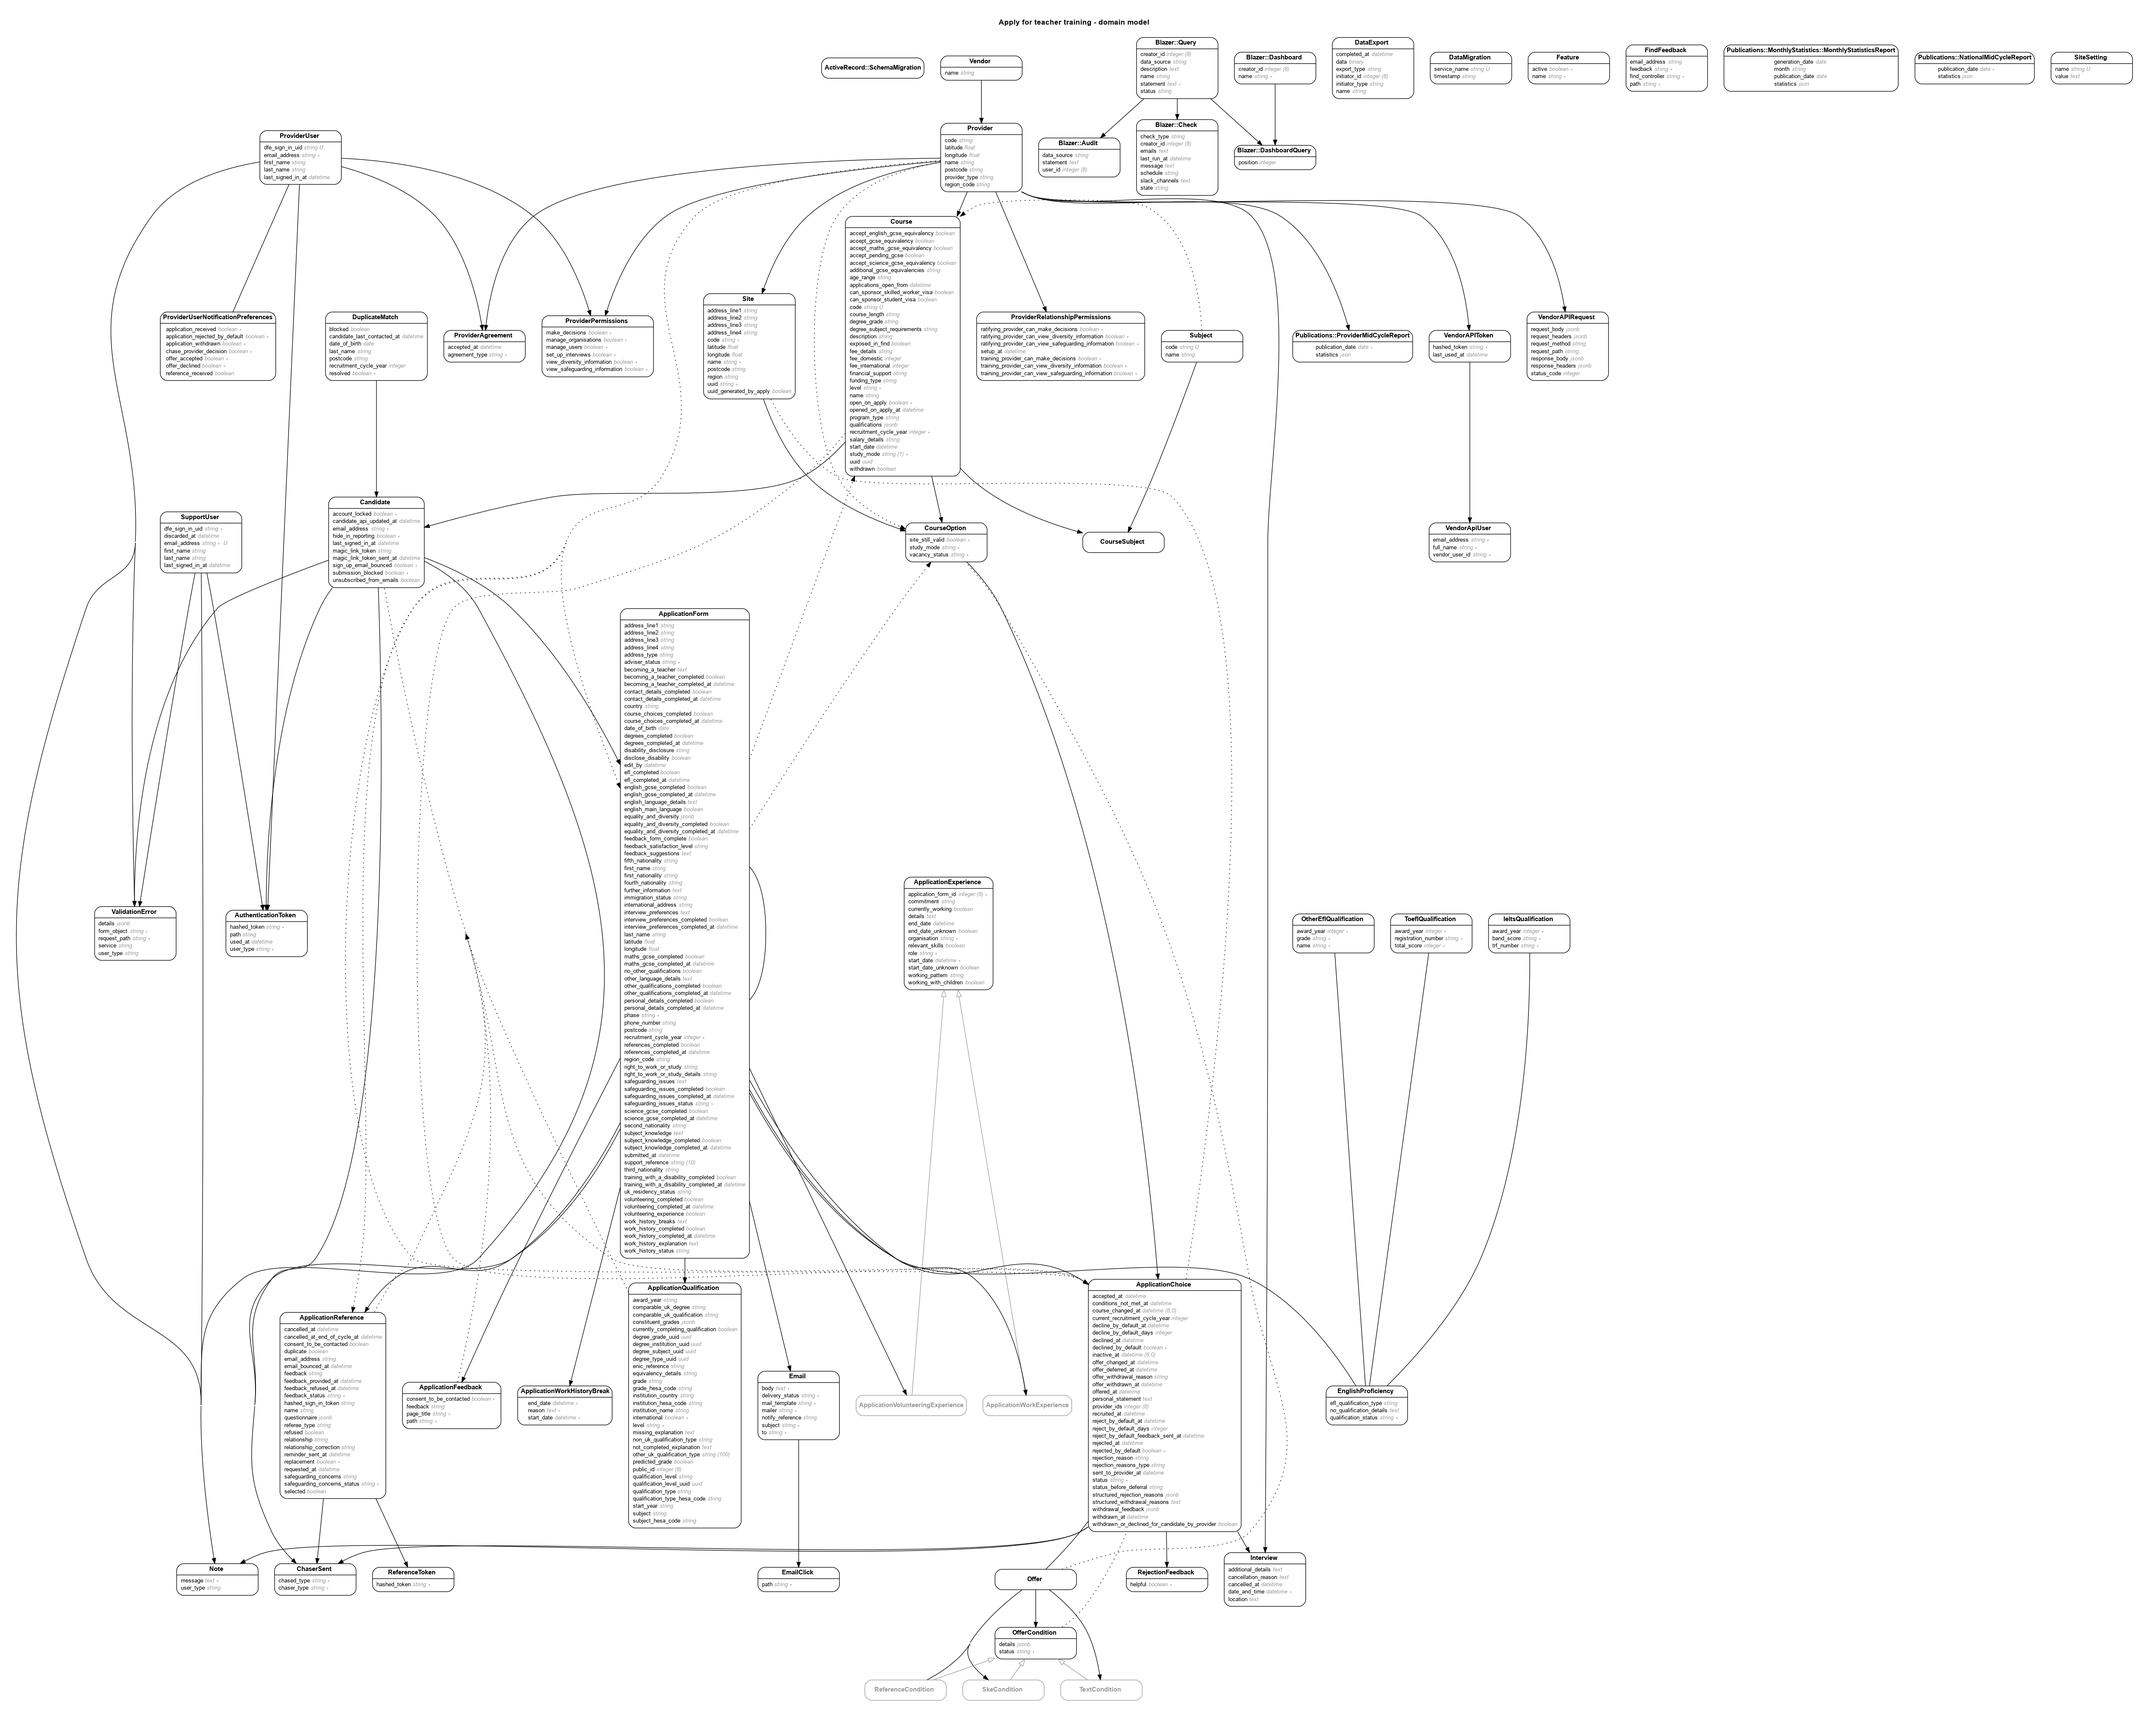
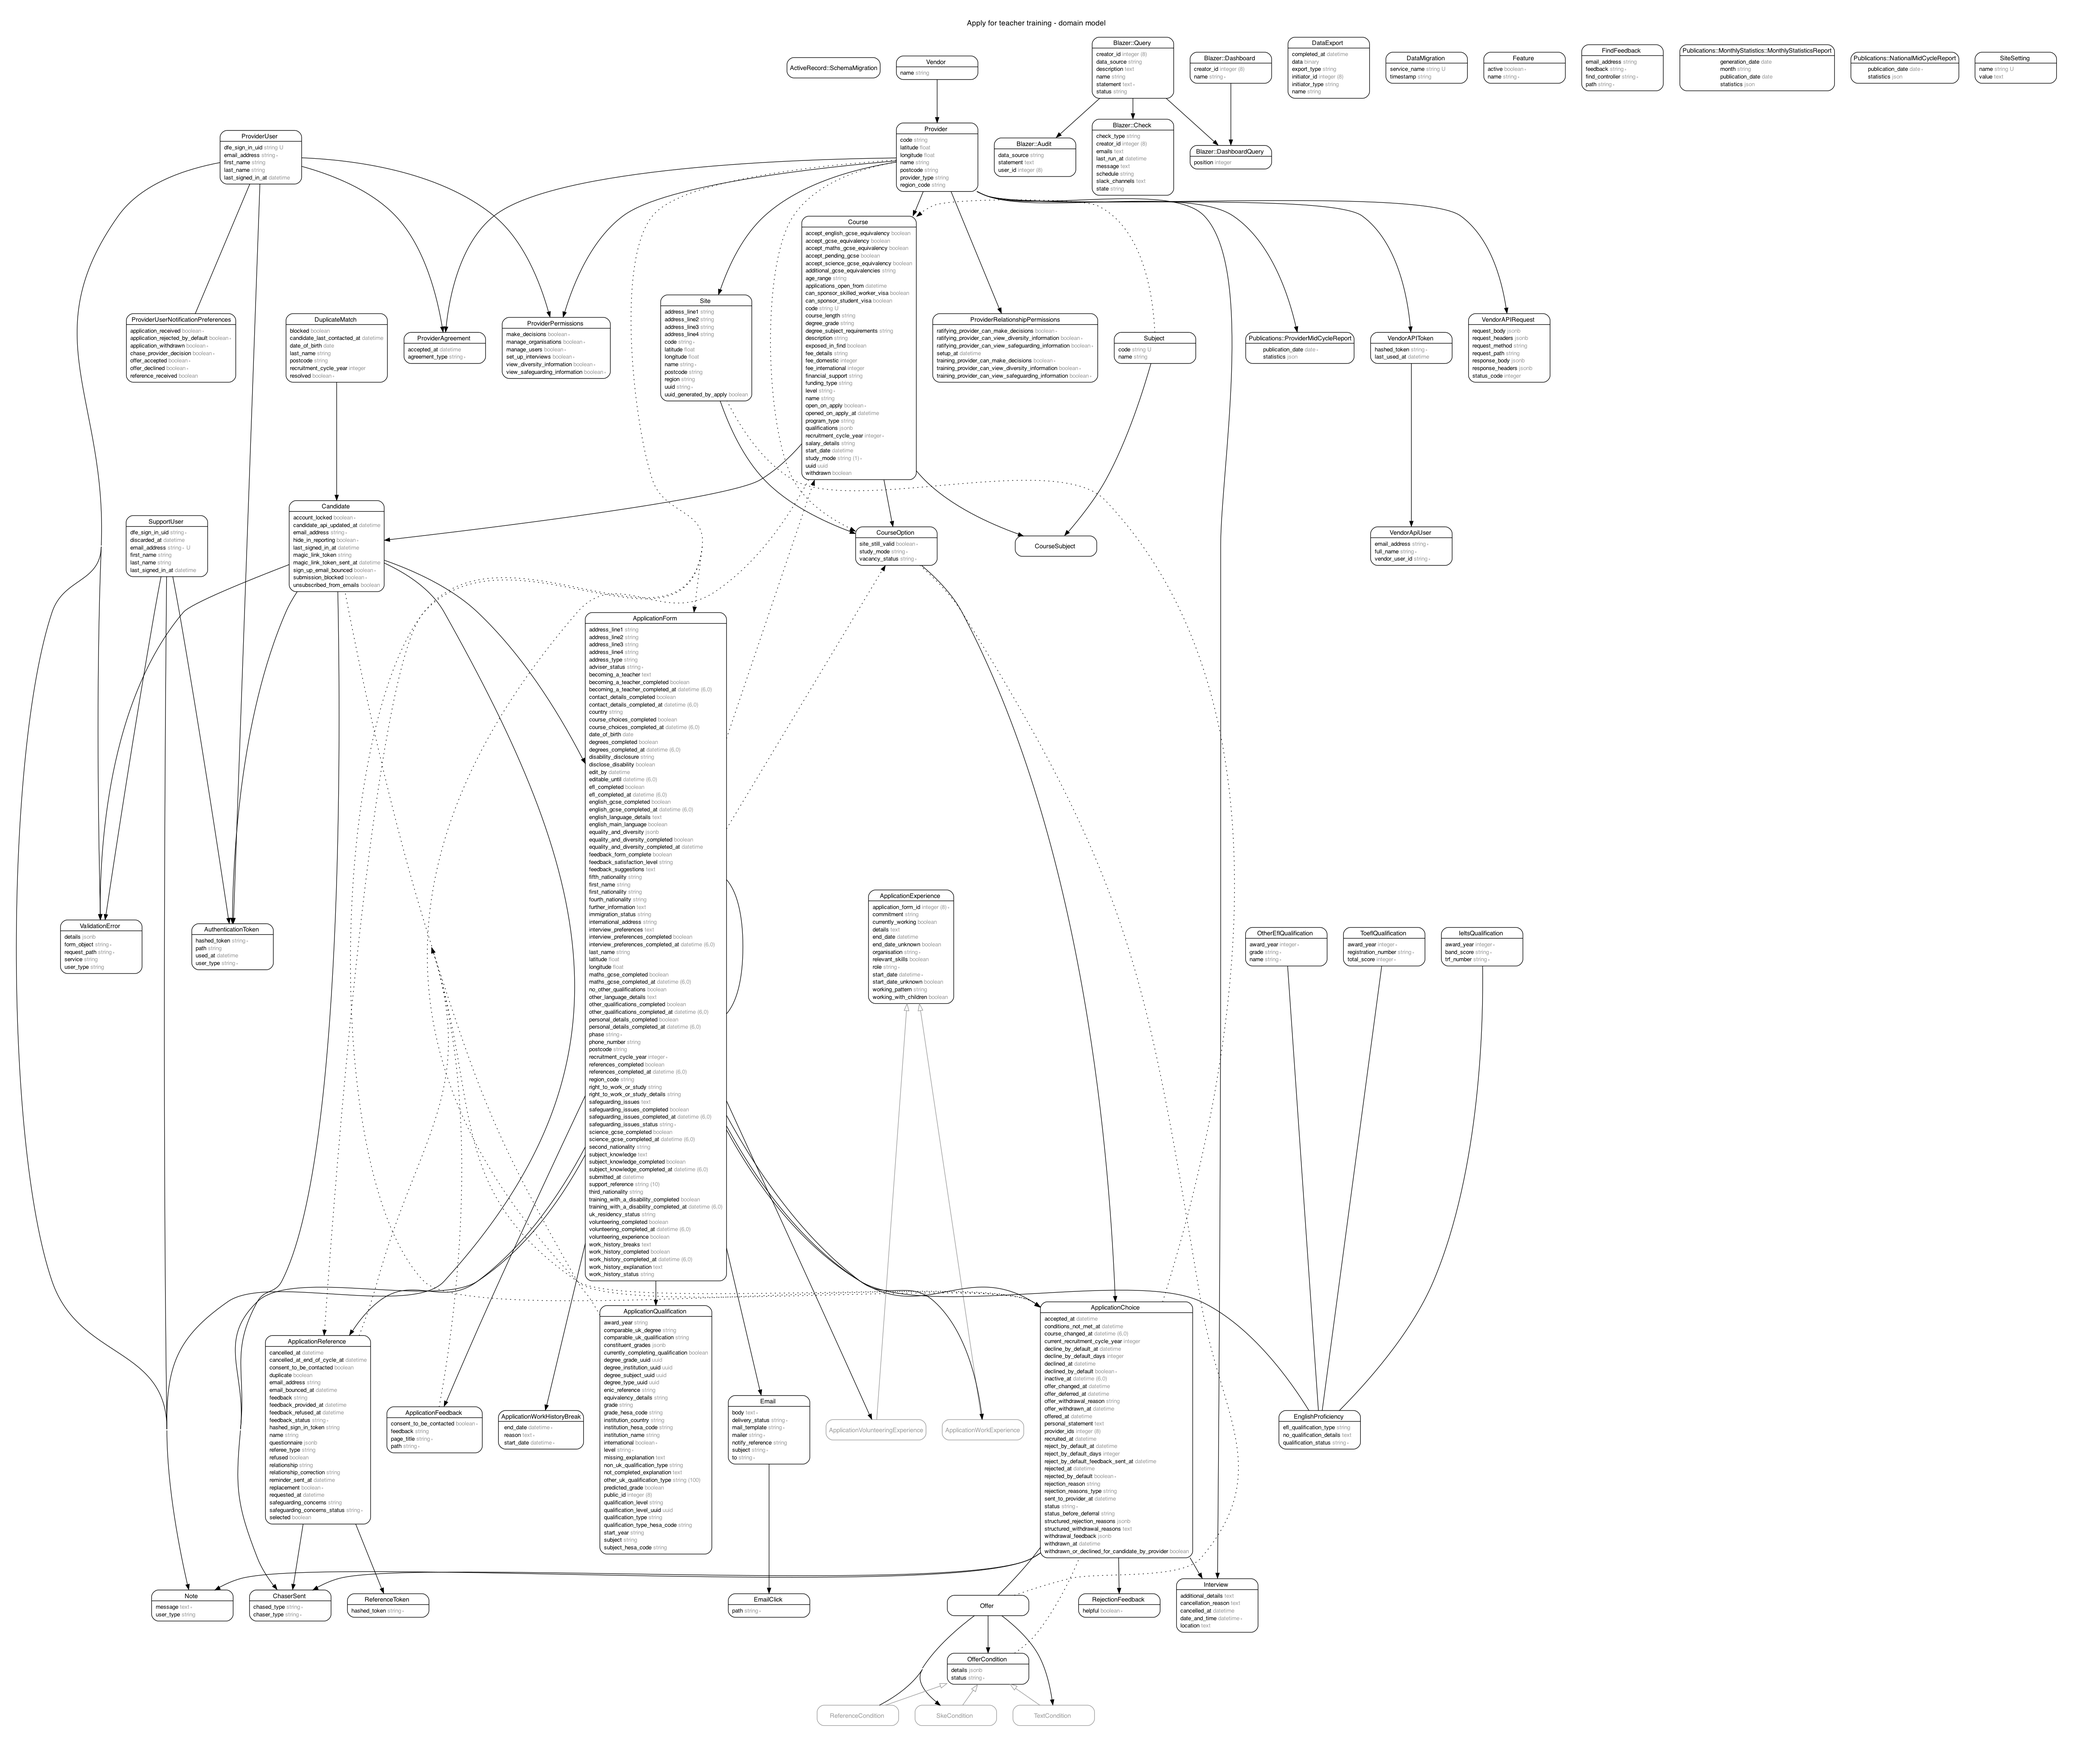
Add editable_until to application forms
Introducing support functionality to grant an editable extension
to application forms

diff --git a/db/schema.rb b/db/schema.rb
@@ -10,7 +10,7 @@
 #
 # It's strongly recommended that you check this file into your version control system.
 
-ActiveRecord::Schema[7.0].define(version: 2023_09_26_153652) do
+ActiveRecord::Schema[7.0].define(version: 2023_10_23_155155) do
   create_sequence "qualifications_public_id_seq", start: 120000
 
   # These are extensions that must be enabled in order to support this database
@@ -164,27 +164,28 @@ ActiveRecord::Schema[7.0].define(version: 2023_09_26_153652) do
     t.boolean "references_completed"
     t.string "immigration_status"
     t.string "region_code"
-    t.datetime "becoming_a_teacher_completed_at", precision: nil
-    t.datetime "contact_details_completed_at", precision: nil
-    t.datetime "course_choices_completed_at", precision: nil
-    t.datetime "degrees_completed_at", precision: nil
-    t.datetime "efl_completed_at", precision: nil
-    t.datetime "english_gcse_completed_at", precision: nil
-    t.datetime "interview_preferences_completed_at", precision: nil
-    t.datetime "maths_gcse_completed_at", precision: nil
-    t.datetime "other_qualifications_completed_at", precision: nil
-    t.datetime "personal_details_completed_at", precision: nil
-    t.datetime "references_completed_at", precision: nil
-    t.datetime "safeguarding_issues_completed_at", precision: nil
-    t.datetime "science_gcse_completed_at", precision: nil
-    t.datetime "subject_knowledge_completed_at", precision: nil
-    t.datetime "training_with_a_disability_completed_at", precision: nil
-    t.datetime "volunteering_completed_at", precision: nil
-    t.datetime "work_history_completed_at", precision: nil
+    t.datetime "becoming_a_teacher_completed_at"
+    t.datetime "contact_details_completed_at"
+    t.datetime "course_choices_completed_at"
+    t.datetime "degrees_completed_at"
+    t.datetime "efl_completed_at"
+    t.datetime "english_gcse_completed_at"
+    t.datetime "interview_preferences_completed_at"
+    t.datetime "maths_gcse_completed_at"
+    t.datetime "other_qualifications_completed_at"
+    t.datetime "personal_details_completed_at"
+    t.datetime "references_completed_at"
+    t.datetime "safeguarding_issues_completed_at"
+    t.datetime "science_gcse_completed_at"
+    t.datetime "subject_knowledge_completed_at"
+    t.datetime "training_with_a_disability_completed_at"
+    t.datetime "volunteering_completed_at"
+    t.datetime "work_history_completed_at"
     t.string "adviser_status", default: "unassigned", null: false
     t.boolean "equality_and_diversity_completed"
     t.datetime "equality_and_diversity_completed_at", precision: nil
     t.boolean "feedback_form_complete", default: false
+    t.datetime "editable_until"
     t.index ["candidate_id"], name: "index_application_forms_on_candidate_id"
     t.index ["submitted_at"], name: "index_application_forms_on_submitted_at"
   end
@@ -653,8 +654,8 @@ ActiveRecord::Schema[7.0].define(version: 2023_09_26_153652) do
   create_table "provider_users_providers", force: :cascade do |t|
     t.bigint "provider_id", null: false
     t.bigint "provider_user_id", null: false
-    t.datetime "created_at", precision: nil, default: -> { "now()" }, null: false
-    t.datetime "updated_at", precision: nil, default: -> { "now()" }, null: false
+    t.datetime "created_at", precision: nil, default: -> { "CURRENT_TIMESTAMP" }, null: false
+    t.datetime "updated_at", precision: nil, default: -> { "CURRENT_TIMESTAMP" }, null: false
     t.boolean "manage_users", default: false, null: false
     t.boolean "view_safeguarding_information", default: false, null: false
     t.boolean "make_decisions", default: false, null: false

diff --git a/db/migrate/20231023155155_add_editable_until_to_application_forms.rb b/db/migrate/20231023155155_add_editable_until_to_application_forms.rb
@@ -1,0 +1,5 @@
+class AddEditableUntilToApplicationForms < ActiveRecord::Migration[7.0]
+  def change
+    add_column :application_forms, :editable_until, :datetime
+  end
+end
